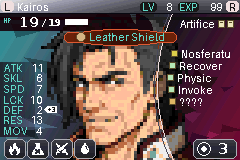
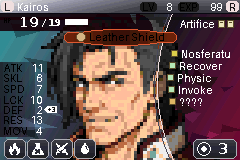
gris_final: etiquetas en negro
Claude-Session: https://claude.ai/code/session_01C4QAM7MwvCQVjJLG12SBSt

diff --git a/gba_status/paleta_oficial.py b/gba_status/paleta_oficial.py
@@ -86,6 +86,6 @@ ZONAS["gris_final"] = [((60, 26, 180, 48), CARMESI)]  # solo el arma equipada en
 ZONAS["gris_final"] = [((60, 26, 180, 48), [(12, 12, 16), (96, 8, 32), (150, 16, 48), (150, 16, 48), (150, 16, 48)])]
 
 # color de las etiquetas (HP, ATK, LV, EXP...) y del texto del arma, por tema (si no, quedan las originales)
-COLOR_ETIQUETAS = {"gris_final": (96, 216, 200)}   # teal claro
+COLOR_ETIQUETAS = {"gris_final": (0, 0, 0)}   # negro
 NARANJA = [(12, 12, 16), (88, 30, 10), (168, 64, 24), (216, 88, 48), (216, 88, 48)]
 ZONAS["gris_final"] = [((60, 26, 180, 48), NARANJA)]  # arma equipada en naranja brasa, sin contorno claro
